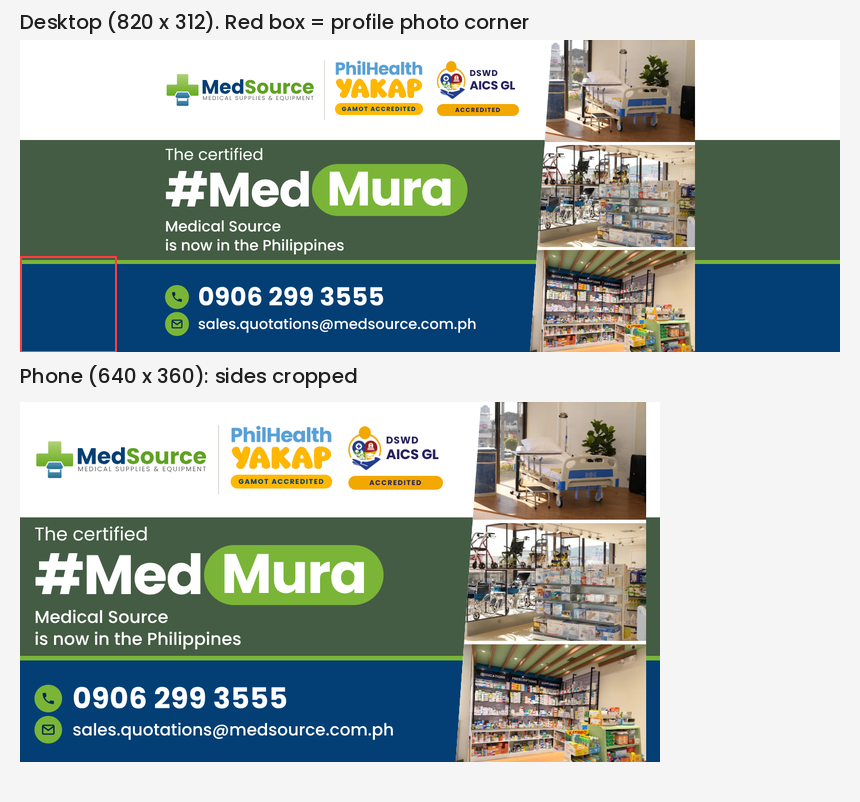
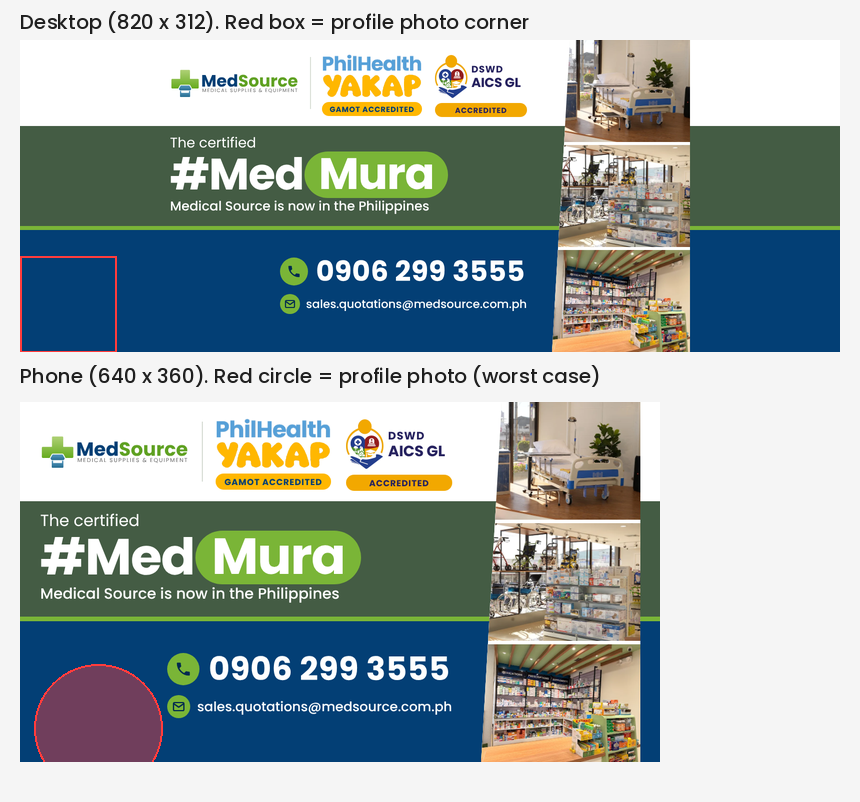
Rework MedSource Facebook cover phone-first: clear profile-photo corner, larger type
Claude-Session: https://claude.ai/code/session_01TSvvzaW7cd1urpd5UAcBQJ

diff --git a/medsource/posts/2026-10-12-facebook-cover/source/cover.html b/medsource/posts/2026-10-12-facebook-cover/source/cover.html
@@ -5,35 +5,38 @@
 @font-face{font-family:Poppins;font-weight:700;src:url(../../../brand/fonts/poppins/Poppins-Bold.ttf)}
 *{margin:0;padding:0;box-sizing:border-box}
 body{width:1640px;height:624px;background:#fff;font-family:Poppins,sans-serif;position:relative;overflow:hidden}
-/* safe zone for phones: x 265 to 1375. Content lives in x 290 to 1350 */
-.band{position:absolute;left:0;top:200px;width:1640px;height:240px;background:#445C44}
-.stripe{position:absolute;left:0;top:440px;width:1640px;height:8px;background:#7AB537}
-.foot{position:absolute;left:0;top:448px;width:1640px;height:176px;background:#033F75}
-.logo{position:absolute;left:290px;top:65px;height:70px}
-.sep{position:absolute;left:608px;top:40px;width:2px;height:120px;background:#D9DED6}
-.hero{position:absolute;left:290px;top:210px;color:#fff;width:720px}
-.l1{font-size:32px;line-height:38px;font-weight:400}
-.l2{display:flex;align-items:center;font-size:96px;line-height:104px;font-weight:700;letter-spacing:-0.02em}
-.pill{background:#7AB537;border-radius:9999px;padding:0 30px 4px;margin-left:2px;line-height:100px}
-.l3{font-size:30px;line-height:38px;font-weight:500;margin-top:2px}
-.row{position:absolute;left:290px;display:flex;align-items:center;color:#fff}
-.ic{width:48px;height:48px;border-radius:50%;background:#7AB537;display:flex;align-items:center;justify-content:center;margin-right:18px}
-.r1{top:476px;font-size:50px;font-weight:700;letter-spacing:.01em}
-.r2{top:544px;font-size:29px;font-weight:500}
-.lk{position:absolute;top:40px;display:flex;flex-direction:column}
-.lkA{left:630px;width:176px}
-.lkA img{display:block;width:176px}
+/* Phone-first safe zones (1640 x 624 file):
+   content x 300-1340, y 30-595. Keep bottom-left corner (x<500, y>390) empty: profile photo covers it on phones. */
+.band{position:absolute;left:0;top:172px;width:1640px;height:200px;background:#445C44}
+.stripe{position:absolute;left:0;top:372px;width:1640px;height:8px;background:#7AB537}
+.foot{position:absolute;left:0;top:380px;width:1640px;height:244px;background:#033F75}
+.logo{position:absolute;left:300px;top:57px;height:60px}
+.sep{position:absolute;left:580px;top:34px;width:2px;height:104px;background:#D9DED6}
+.hero{position:absolute;left:300px;top:190px;color:#fff;width:720px}
+.l1{font-size:28px;line-height:32px;font-weight:400}
+.l2{display:flex;align-items:center;font-size:88px;line-height:94px;font-weight:700;letter-spacing:-0.02em}
+.pill{background:#7AB537;border-radius:9999px;padding:0 28px 3px;margin-left:2px;line-height:90px}
+.l3{font-size:26px;line-height:32px;font-weight:500;margin-top:0;white-space:nowrap}
+.row{position:absolute;left:520px;display:flex;align-items:center;color:#fff}
+.ic{border-radius:50%;background:#7AB537;display:flex;align-items:center;justify-content:center}
+.r1{top:420px;font-size:56px;font-weight:700;letter-spacing:.01em}
+.r1 .ic{width:56px;height:56px;margin-right:16px}
+.r2{top:508px;font-size:23px;font-weight:500}
+.r2 .ic{width:40px;height:40px;margin-right:12px}
+.lk{position:absolute;top:28px;display:flex;flex-direction:column}
+.lkA{left:604px;width:200px}
+.lkA img{display:block;width:200px}
 .lkA img.yk{margin-top:4px}
-.pill2{margin-top:8px;height:24px;border-radius:12px;display:flex;align-items:center;justify-content:center;font-weight:700;font-size:12px;letter-spacing:.13em;text-transform:uppercase;color:#033F75;background:#FFB700;white-space:nowrap}
-.lkB{left:834px;width:164px}
-.lkB .top{display:flex;align-items:center;height:80px}
-.lkB .top img{height:76px;width:auto;display:block;margin-right:8px}
+.pill2{margin-top:8px;height:28px;border-radius:14px;display:flex;align-items:center;justify-content:center;font-weight:700;font-size:15px;letter-spacing:.06em;text-transform:uppercase;color:#033F75;background:#FFB700;white-space:nowrap}
+.lkB{left:830px;width:184px}
+.lkB .top{display:flex;align-items:center;height:90px}
+.lkB .top img{height:86px;width:auto;display:block;margin-right:8px}
 .lkB .txt{color:#26225F;font-weight:700;line-height:1}
-.lkB .txt b{display:block;font-size:17px;letter-spacing:.06em;margin-bottom:4px}
-.lkB .txt span{display:block;font-size:24px;letter-spacing:-.01em}
+.lkB .txt b{display:block;font-size:19px;letter-spacing:.06em;margin-bottom:4px}
+.lkB .txt span{display:block;font-size:26px;letter-spacing:-.01em}
 .lkB .pill2{background:#F2A800;color:#26225F}
-.panel{position:absolute;left:1020px;top:0;width:330px;height:624px;clip-path:polygon(44px 0,100% 0,100% 100%,0 100%);background:#fff}
-.slot{position:absolute;left:0;width:330px;height:204px;background-size:cover;background-repeat:no-repeat;background-color:#E9EFE6}
+.panel{position:absolute;left:1064px;top:0;width:276px;height:624px;clip-path:polygon(36px 0,100% 0,100% 100%,0 100%);background:#fff}
+.slot{position:absolute;left:0;width:276px;height:204px;background-size:cover;background-repeat:no-repeat;background-color:#E9EFE6}
 .s1{top:0;background-image:url(photo1.webp);background-position:50% 60%}
 .s2{top:210px;background-image:url(photo3.webp);background-position:50% 60%}
 .s3{top:420px;background-image:url(photo2.webp);background-position:50% 15%}
@@ -45,8 +48,8 @@ body{width:1640px;height:624px;background:#fff;font-family:Poppins,sans-serif;po
 <div class="lk lkB"><div class="top"><img src="aics-icon.png"><div class="txt"><b>DSWD</b><span>AICS GL</span></div></div><div class="pill2">Accredited</div></div>
 <div class="hero"><div class="l1">The certified</div>
 <div class="l2"><span>#Med</span><span class="pill">Mura</span></div>
-<div class="l3">Medical Source<br>is now in the Philippines</div></div>
-<div class="row r1"><span class="ic"><svg width="26" height="26" viewBox="0 0 24 24" fill="#022A4F"><path d="M6.6 10.8a15 15 0 006.6 6.6l2.2-2.2a1 1 0 011-.25 11.4 11.4 0 003.6.57 1 1 0 011 1V20a1 1 0 01-1 1A17 17 0 013 4a1 1 0 011-1h3.5a1 1 0 011 1c0 1.25.2 2.45.57 3.57a1 1 0 01-.25 1z"/></svg></span>0906 299 3555</div>
-<div class="row r2"><span class="ic"><svg width="26" height="26" viewBox="0 0 24 24" fill="none" stroke="#022A4F" stroke-width="2.2" stroke-linecap="round" stroke-linejoin="round"><rect x="3" y="5" width="18" height="14" rx="2"/><path d="M3.5 7l8.5 6 8.5-6"/></svg></span>sales.quotations@medsource.com.ph</div>
+<div class="l3">Medical Source is now in the Philippines</div></div>
+<div class="row r1"><span class="ic"><svg width="30" height="30" viewBox="0 0 24 24" fill="#022A4F"><path d="M6.6 10.8a15 15 0 006.6 6.6l2.2-2.2a1 1 0 011-.25 11.4 11.4 0 003.6.57 1 1 0 011 1V20a1 1 0 01-1 1A17 17 0 013 4a1 1 0 011-1h3.5a1 1 0 011 1c0 1.25.2 2.45.57 3.57a1 1 0 01-.25 1z"/></svg></span>0906 299 3555</div>
+<div class="row r2"><span class="ic"><svg width="24" height="24" viewBox="0 0 24 24" fill="none" stroke="#022A4F" stroke-width="2.2" stroke-linecap="round" stroke-linejoin="round"><rect x="3" y="5" width="18" height="14" rx="2"/><path d="M3.5 7l8.5 6 8.5-6"/></svg></span>sales.quotations@medsource.com.ph</div>
 <div class="panel"><div class="slot s1"></div><div class="slot s2"></div><div class="slot s3"></div></div>
 </body></html>

diff --git a/medsource/posts/2026-10-12-facebook-cover/post.md b/medsource/posts/2026-10-12-facebook-cover/post.md
@@ -14,7 +14,14 @@ Not scheduled: a cover is uploaded by hand on the Facebook page, so there is no 
 
 ## Device fit
 
-Facebook shows one cover at 820 × 312 on desktop and 640 × 360 on phones, which trims the sides. The file is 1640 × 624 (2x desktop). Everything essential (logo, badges, headline, contacts, all three photos) sits inside the phone-safe centre, x 290 to 1350, so nothing is clipped on phones. The outer 270 px each side is plain band colour. The bottom-left corner stays clear of the profile photo on desktop. See [`device-preview.png`](device-preview.png).
+Facebook shows one cover at 820 × 312 on desktop and 640 × 360 on phones, which trims the sides, and the page profile photo covers the bottom-left corner. The file is 1640 × 624 (2x desktop). Phone-first rules used:
+
+- Everything essential sits in x 300 to 1340 and y 30 to 595, inside the phone-safe centre.
+- The bottom-left corner (x under 500, y over 390) is left empty for the profile photo, so the phone number and email start at x 520.
+- Type is kept large (phone number 56 px, headline 88 px) because the cover shrinks to about a third of its size on phones.
+- All three photos sit in a slim slash column inside the safe zone.
+
+See [`device-preview.png`](device-preview.png) for the desktop and phone crops with the profile photo overlay.
 
 ## Image
 
